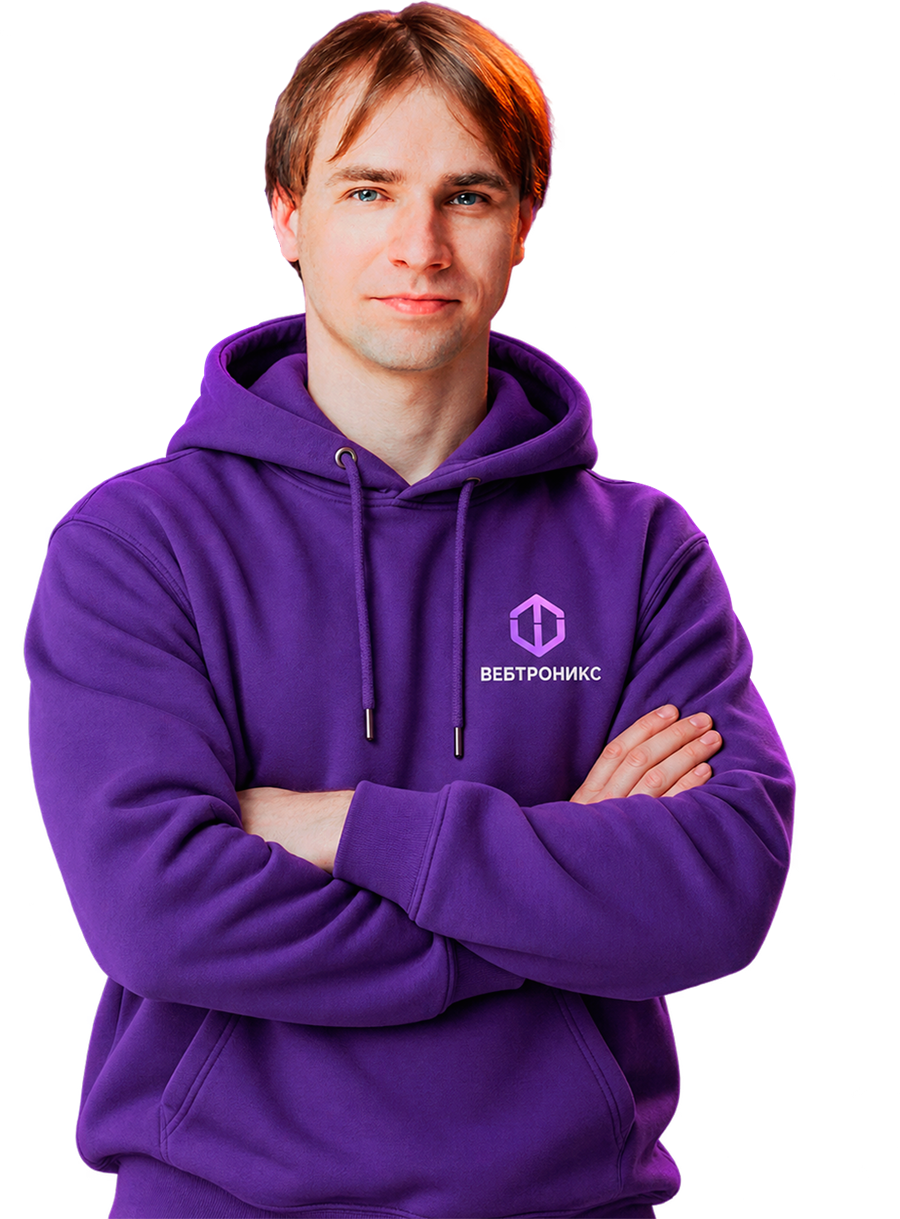
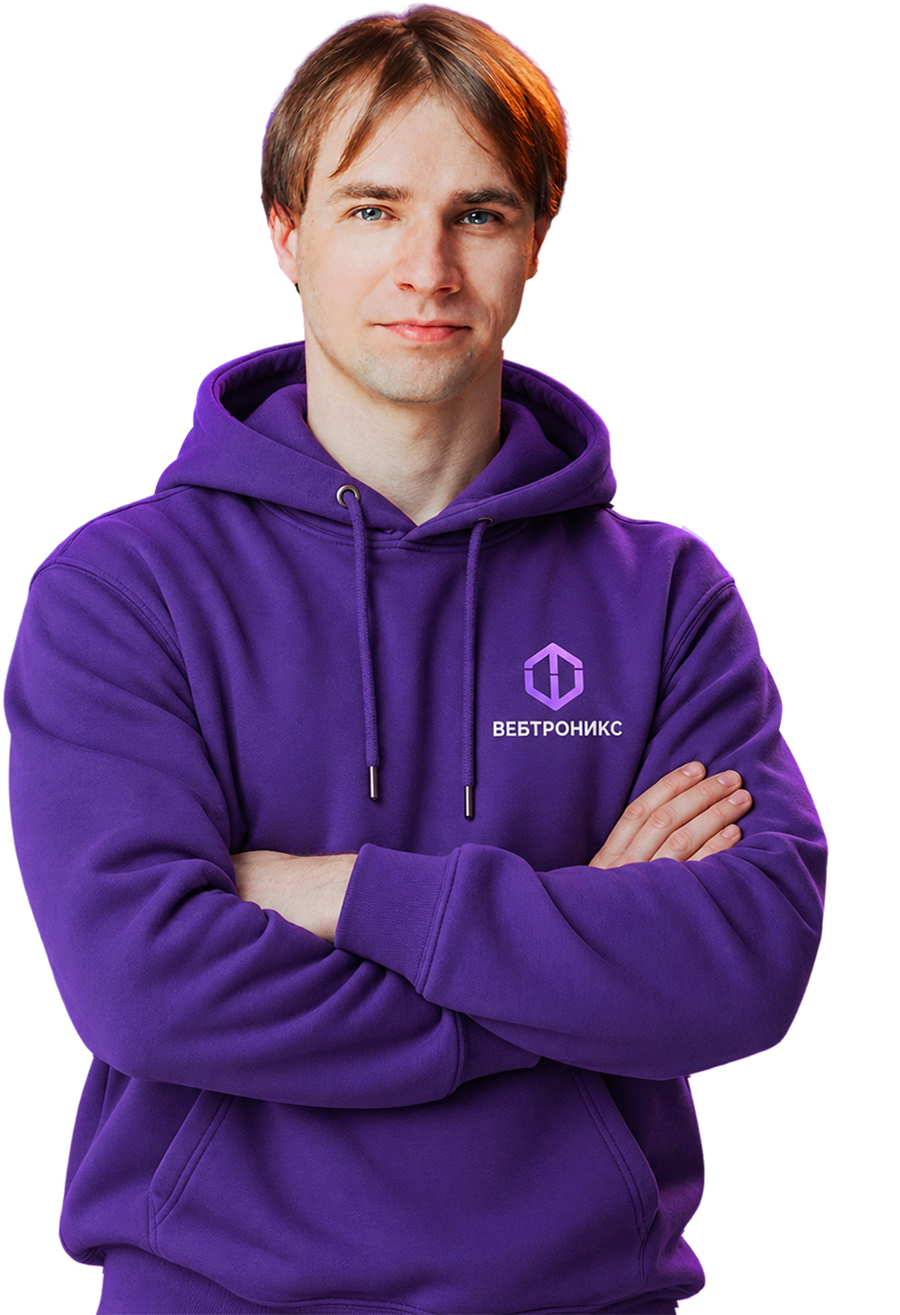
Mini-KP: mobile cover, director slide polish, new badges
- Cover: header button on mobile, chart fills free height, counters synced
  with the chart loop, floating tiles and pearl dots, static globe badge
- Last slide: new director photo, animated item icons, rearranged tiles
- Credentials row: mark + two-line caption (Astana Hub, Skolkovo in brand
  colours, Ministry accreditation shield)

diff --git a/mini-kp/index.html b/mini-kp/index.html
@@ -145,13 +145,13 @@
   .btn { display: inline-flex; align-items: center; justify-content: center; gap: .625rem; padding: .75rem 1.5rem; border-radius: .875rem; border: 0; font-weight: 700; font-size: .9375rem; text-decoration: none; cursor: pointer; transition: transform .3s var(--ease), box-shadow .3s var(--ease); }
   .btn-primary { background: var(--brand-gradient); color: #fff; box-shadow: 0 6px 20px rgba(112, 82, 255, .35); }
   .btn-primary:hover { transform: translateY(-2px); box-shadow: 0 10px 28px rgba(112, 82, 255, .45); }
-  .top .btn { height: 2.75rem; padding: 0 1.25rem; display: none; }
+  .top .btn { height: 2.375rem; padding: 0 1rem; border-radius: .75rem; font-size: .8125rem; }
   @media (min-width: 900px) and (orientation: landscape) {
     .top { padding: 0 .75rem 0 1.25rem; border-radius: 1.125rem; }
     .logo img { width: 2.625rem; }
     .logo b { font-size: 1.375rem; }
     .logo small { font-size: .75rem; }
-    .top .btn { display: inline-flex; }
+    .top .btn { height: 2.75rem; padding: 0 1.25rem; border-radius: .875rem; font-size: .9375rem; }
   }
 
   /* Carousel navigation (ПК) — стрелки и точки как в слайдерах главной */
@@ -361,15 +361,20 @@
   .s1bg__dot { position: absolute; width: 1.375rem; height: 1.375rem; border-radius: 50%; background: radial-gradient(circle at 35% 30%, #fff, #d8c8ff 60%, #b08cff); box-shadow: 0 .5rem 1rem -.375rem rgba(112, 82, 255, .6); animation: s1-dot 5s ease-in-out infinite; }
   .s1bg__dot--1 { left: 95%; top: 12%; width: 1.5rem; height: 1.5rem; animation-delay: -2s; }
   .s1bg__dot--2 { left: 44%; top: 38%; width: 1rem; height: 1rem; animation-duration: 6s; }
-  @keyframes s1-dot { 0%, 100% { translate: 0 0; } 50% { translate: 0 -.5rem; } }
+  @keyframes s1-dot { 0%, 100% { translate: 0 0; } 33% { translate: .25rem -.75rem; } 66% { translate: -.25rem -1.125rem; } }
   @media (max-width: 899px), (orientation: portrait) {
     .s1bg__blob--3 { display: none; }
     .s1bg__ring { width: 38rem; left: 50%; top: 66%; opacity: .75; }
     .s1bg__dot--1 { left: auto; right: 7%; top: 35.5%; }
     .s1bg__dot--2 { display: none; }
+    /* телефон: отступ под шапкой, плашка сайта отдельной строкой, график забирает свободную высоту экрана */
+    .s1 { display: flex; flex-direction: column; margin-top: 1rem; }
+    .s1__for { display: flex; flex-direction: column; align-items: flex-start; gap: .625rem; }
+    .fc-wrap, #s1 .fc, #s1 .well { flex: 1; display: flex; flex-direction: column; }
+    .fc__chart { flex: 1; height: auto; min-height: 11.5rem; max-height: 24rem; }
   }
   @media (prefers-reduced-motion: reduce) {
-    .s1bg__ring::before, .s1bg__dot { animation: none; }
+    .s1bg__ring::before, .s1bg__dot, .ill *, .float-ico, .float-ico img { animation: none !important; }
   }
 
   @media (min-width: 900px) and (orientation: landscape) {
@@ -394,13 +399,19 @@
       background: rgba(235, 223, 255, .9); border: 1px solid rgba(255, 255, 255, .9); box-shadow: 0 20px 40px rgba(112, 82, 255, .15); -webkit-backdrop-filter: blur(16px); backdrop-filter: blur(16px);
     }
     .float-ico img { width: 64%; }
-    .float-ico--1 { left: -2rem; top: -1.5rem; }
-    .float-ico--2 { right: -1.5rem; bottom: -1.5rem; animation-delay: -3s; }
+    .float-ico--1 { left: -2rem; top: -1.5rem; animation: ico-hover-a 5.5s ease-in-out infinite; }
+    .float-ico--2 { right: -1.5rem; bottom: -1.5rem; animation: ico-hover-b 6.5s ease-in-out -2s infinite; }
+    .float-ico img { animation: ico-tilt 4.5s ease-in-out infinite alternate; }
+    .float-ico--2 img { animation-duration: 5.5s; animation-delay: -1.5s; }
     .hint { position: absolute; left: 50%; bottom: 1.5rem; transform: translateX(-50%); font-size: .9375rem; }
     .hint { display: none; }
     .hint:hover { background: #fff; }
   }
   @keyframes floatW { 0% { transform: translateY(0) rotate(0); } 100% { transform: translateY(-1rem) rotate(1.5deg); } }
+  /* парение плиток с 3D-иконками у графика: подъём, лёгкий дрейф и наклон, у каждой свой ритм */
+  @keyframes ico-hover-a { 0%, 100% { transform: translate(0, 0) rotate(0); box-shadow: 0 20px 40px rgba(112, 82, 255, .15); } 50% { transform: translate(-.375rem, -1rem) rotate(-5deg); box-shadow: 0 32px 48px rgba(112, 82, 255, .22); } }
+  @keyframes ico-hover-b { 0%, 100% { transform: translate(0, 0) rotate(0); box-shadow: 0 20px 40px rgba(112, 82, 255, .15); } 50% { transform: translate(.375rem, -.875rem) rotate(4deg); box-shadow: 0 32px 48px rgba(112, 82, 255, .22); } }
+  @keyframes ico-tilt { from { transform: rotate(-6deg) scale(.96); } to { transform: rotate(6deg) scale(1.04); } }
 
   /* =========================================================
      2 / 5 — конкуренты
@@ -669,11 +680,22 @@
   .gain__prog i.on { width: 1rem; background: #fff; }
   .cta__ready { font-size: .9375rem; font-weight: 700; line-height: 1.35; }
   .cta__foot { display: grid; gap: .75rem; margin-top: auto; }
-  .logos { display: grid; grid-template-columns: repeat(4, 1fr); gap: .375rem; }
-  .logos li { display: grid; justify-items: center; align-content: center; gap: .375rem; padding: .5rem .25rem; border-radius: .875rem; background: rgba(255, 255, 255, .1); box-shadow: inset 0 0 0 1px rgba(255, 255, 255, .2); text-align: center; }
-  .logos img { height: 1.375rem; width: auto; max-width: 100%; }
-  .logos li:nth-child(3) img { height: 1rem; }
-  .logos span { font-size: .625rem; font-weight: 600; line-height: 1.2; color: rgba(255, 255, 255, .8); }
+  /* регалии: знак слева, справа подпись в две строки (статус + название) */
+  .logos { display: grid; grid-template-columns: repeat(3, minmax(0, 1fr)); gap: .375rem; }
+  .logos li { display: flex; align-items: center; justify-content: center; gap: .25rem; min-width: 0; padding: .5rem .3125rem; border-radius: .875rem; background: rgba(255, 255, 255, .1); box-shadow: inset 0 0 0 1px rgba(255, 255, 255, .2); }
+  .logos img { flex: none; width: auto; height: 1.25rem; }
+  .logos__acc img { filter: drop-shadow(0 0 .375rem rgba(140, 90, 255, .55)); }
+  .logos li > span { display: grid; min-width: 0; line-height: 1.15; text-align: left; }
+  .logos small { font-size: .5625rem; font-weight: 500; color: rgba(255, 255, 255, .75); }
+  .logos b { font-size: .65rem; font-weight: 700; letter-spacing: -.01em; color: #fff; white-space: nowrap; }
+  .logos__sk b { color: #b1ec52; }
+  @media (min-width: 900px) and (orientation: landscape) {
+    .logos { grid-template-columns: repeat(3, auto); justify-content: start; gap: .625rem; }
+    .logos li { gap: .5rem; padding: .625rem .875rem .625rem .625rem; border-radius: .875rem; }
+    .logos img { height: 2.125rem; }
+    .logos small { font-size: .6875rem; }
+    .logos b { font-size: .875rem; }
+  }
 
   @media (min-width: 900px) and (orientation: landscape) {
     .cta { height: 100%; grid-template-columns: minmax(0, 1fr) minmax(0, 1.12fr); grid-template-rows: 1fr auto; gap: 1.25rem 3rem; align-content: stretch; padding: 2.25rem 2.75rem 1.75rem; border-radius: 2.25rem; }
@@ -696,37 +718,26 @@
     .gain li.is-cur { box-shadow: 0 0 0 2px rgba(255, 255, 255, .95), 0 0 0 .4375rem rgba(255, 255, 255, .16), 0 22px 40px -16px rgba(20, 8, 90, .75); }
     .gain li.is-cur i { animation: gr-beat 1.1s ease-in-out; }
     .cta__foot { grid-column: 1 / -1; }
-    .logos { grid-template-columns: repeat(4, minmax(0, 1fr)); gap: 1rem; }
-    .logos li { padding: .875rem 1rem .75rem; gap: .5rem; border-radius: 1rem; }
-    .logos img { height: 2.125rem; }
-    .logos li:nth-child(3) img { height: 1.375rem; }
-    .logos span { font-size: .8125rem; }
   }
 
   /* директор с плашками (только ПК) */
   .dir { display: none; }
-  .logos { grid-template-columns: repeat(3, minmax(0, 1fr)); }
-  .logos img { object-fit: contain; }
   @media (min-width: 900px) and (orientation: landscape) {
-    .cta { grid-template-columns: minmax(0, 1fr) minmax(0, 1fr); }
+    .cta { grid-template-columns: minmax(0, 1fr) 22rem; }   /* левая колонка шире — под регалии; директор привязан к правому краю */
+    .cta__copy { max-width: 27.75rem; }   /* текст — прежней ширины, как при равных колонках */
     .cta__copy { grid-column: 1; grid-row: 1; }
     .cta__foot { grid-column: 1; grid-row: 2; }
     .gain { display: none; }
-    .logos { gap: .75rem; }
-    .logos li { padding: .75rem .75rem .875rem; gap: .5rem; }
-    .logos span { font-size: .75rem; }
-    .logos img { height: 1.625rem; max-width: 100%; }
-    .logos li:nth-child(3) img { height: 1.125rem; }
 
-    .dir { display: block; position: relative; z-index: 1; grid-column: 2; grid-row: 1 / 3; align-self: end; justify-self: center;
-      width: 26rem; aspect-ratio: 900 / 1219; margin-bottom: -3.25rem; }
+    .dir { display: block; position: relative; z-index: 1; grid-column: 2; grid-row: 1 / 3; align-self: end; justify-self: end;
+      width: 24.25rem; aspect-ratio: 900 / 1315; margin-bottom: -3.25rem; left: -.5rem; }   /* то же место, что при двух равных колонках и сдвиге +20px */
     .dir::before { content: ""; position: absolute; z-index: -1; left: 8%; right: 8%; top: 18%; height: 60%; border-radius: 50%;
       background: radial-gradient(closest-side, rgba(216, 130, 255, .55), transparent); filter: blur(1.5rem); }
     .dir__img { position: absolute; inset: 0; width: 100%; height: 100%; }
     /* плашка-реплика: директор «говорит» — хвостик смотрит на него, внутри по кругу 4 пункта встречи */
     .dir__plate { position: absolute; z-index: 2; border-radius: 1.125rem;
       background: linear-gradient(160deg, #ffffff 0%, #f3eeff 100%); box-shadow: 0 0 0 1px rgba(255, 255, 255, .9), 0 26px 50px -22px rgba(20, 8, 90, .75); }
-    .dir__say { left: -21%; top: calc(37% + 1.25rem); width: 64%; height: 23.5%; animation: say-float 6s ease-in-out infinite alternate; }
+    .dir__say { left: calc(-21% - 2.5rem);   /* итого на 20px левее прежнего: компенсирует сдвиг .dir */ top: calc(36% + 1.25rem); width: 64%; height: 25.5%; animation: say-float 6s ease-in-out infinite alternate; }
     .dir__say::after { content: ""; position: absolute; right: 2.25rem; top: -.9375rem; width: 1.625rem; height: 1rem; background: #fff;
       clip-path: polygon(0 100%, 100% 0, 62% 100%); }
     @keyframes say-float { 0% { transform: translateY(0); } 100% { transform: translateY(-.5rem); } }
@@ -736,19 +747,42 @@
       -webkit-backdrop-filter: blur(12px); backdrop-filter: blur(12px); animation: floatW 6s ease-in-out infinite alternate; }
     .dir__tile img { width: 66%; }
     .dir__tile--1 { left: -13%; top: 7%; }
-    .dir__tile--2 { right: 1%; top: 21%; width: 3.75rem; height: 3.75rem; animation-delay: -3s; }
+    .dir__tile--2 { right: 1%; top: 31%; width: 3.75rem; height: 3.75rem; animation-delay: -3s; }
     .dir__dot { position: absolute; z-index: 0; border-radius: 50%; background: radial-gradient(circle at 35% 30%, #fff, #d8c8ff 60%, #b08cff);
       box-shadow: 0 .5rem 1rem -.375rem rgba(40, 10, 140, .6); animation: s1-dot 5s ease-in-out infinite; }
     .dir__dot--1 { left: 19%; top: 1%; width: 1rem; height: 1rem; animation-delay: -1.5s; }
-    .dir__dot--2 { right: -4%; top: 10%; width: 1.375rem; height: 1.375rem; animation-duration: 6.5s; }
+    .dir__dot--2 { right: -4%; top: 20%; width: 1.375rem; height: 1.375rem; animation-duration: 6.5s; }
     .dir__slot { position: absolute; inset: 0; }
     .dir__item { position: absolute; inset: 0; display: flex; flex-direction: column; justify-content: center; gap: .75rem; padding: 1.375rem 1.375rem; color: #1e293b;
       opacity: 0; transform: translateY(.75rem); transition: opacity .5s ease, transform .6s var(--ease); }
     .dir__item.is-on { opacity: 1; transform: none; transition-delay: .25s; }
     .dir__item.is-off { opacity: 0; transform: translateY(-.75rem); }
     .dir__top { display: flex; align-items: center; justify-content: space-between; }
-    .dir__top i { display: grid; place-items: center; width: 2rem; height: 2rem; border-radius: .625rem; background: var(--brand-gradient); box-shadow: 0 8px 16px -8px rgba(112, 82, 255, .8); }
-    .dir__top i svg { width: 1rem; height: 1rem; }
+    .dir__top i { display: grid; place-items: center; width: 3rem; height: 3rem; border-radius: .875rem; background: var(--brand-gradient); box-shadow: 0 10px 20px -10px rgba(112, 82, 255, .9); overflow: hidden; }
+    .dir__top i svg { width: 2.25rem; height: 2.25rem; overflow: visible; }
+    /* анимированные иконки пунктов: рисунок по сетке 32×32 с полем 5px, всё по центру; анимации без сдвига композиции */
+    .ill * { transform-box: fill-box; transform-origin: center; }
+    .dir__item:not(.is-on) .ill * { animation-play-state: paused !important; }
+    .ill-scan__lens { animation: ill-look 3.2s ease-in-out infinite; }
+    .ill-scan__ln { animation: ill-line 1.6s ease-in-out infinite; }
+    .ill-scan__ln + .ill-scan__ln { animation-delay: .4s; }
+    @keyframes ill-look { 0%, 100% { transform: translate(0, 0); } 25% { transform: translate(-1px, -.75px); } 50% { transform: translate(.75px, -1px); } 75% { transform: translate(.75px, .75px); } }
+    @keyframes ill-line { 0%, 100% { opacity: .45; } 50% { opacity: 1; } }
+    .ill-bars__b { transform-origin: 50% 100%; animation: ill-bar 2.8s cubic-bezier(.34, 1.3, .64, 1) infinite; }
+    .ill-bars__b + .ill-bars__b { animation-delay: .15s; } .ill-bars__b + .ill-bars__b + .ill-bars__b { animation-delay: .3s; }
+    .ill-bars__arrow { animation: ill-up 2.8s ease-in-out infinite; }
+    @keyframes ill-bar { 0% { transform: scaleY(.2); } 30%, 82% { transform: scaleY(1); } 100% { transform: scaleY(.2); } }
+    @keyframes ill-up { 0%, 30% { opacity: 0; transform: translateY(2px); } 45%, 78% { opacity: 1; transform: none; } 92%, 100% { opacity: 0; transform: none; } }
+    .ill-step { animation: ill-step 3.6s cubic-bezier(.34, 1.4, .64, 1) infinite; }
+    .ill-step--2 { animation-delay: .5s; } .ill-step--3 { animation-delay: 1s; }
+    @keyframes ill-step { 0% { opacity: 0; transform: scale(.5); } 12%, 80% { opacity: 1; transform: none; } 92%, 100% { opacity: 0; transform: none; } }
+    .ill [class*="ill-"] { animation-fill-mode: backwards; }
+    .ill-chat__a { transform-origin: 20% 100%; animation: ill-pop 3.2s ease-out infinite; }
+    .ill-chat__b { transform-origin: 80% 100%; animation: ill-pop 3.2s ease-out .5s infinite; }
+    .ill-chat__dot { animation: ill-type 1s ease-in-out infinite; }
+    .ill-chat__dot + .ill-chat__dot { animation-delay: .15s; } .ill-chat__dot + .ill-chat__dot + .ill-chat__dot { animation-delay: .3s; }
+    @keyframes ill-pop { 0% { opacity: 0; transform: scale(.8); } 14%, 84% { opacity: 1; transform: none; } 100% { opacity: 0; transform: none; } }
+    @keyframes ill-type { 0%, 100% { transform: translateY(0); opacity: .5; } 50% { transform: translateY(-1.25px); opacity: 1; } }
     .dir__top b { font-family: "Space Grotesk", Inter, sans-serif; font-size: .8125rem; font-weight: 700; color: var(--brand-primary); letter-spacing: .02em; }
     .dir__top b em { font-style: normal; color: #b4a6e6; }
     .dir__item p { font-size: .9375rem; font-weight: 700; line-height: 1.3; letter-spacing: -.01em; }
@@ -789,7 +823,7 @@
     <span><b>Webtronics</b><small>Трафик · Заявки · Продажи</small></span>
   </a>
   <div class="top__right">
-    <a class="btn btn-primary js-meeting" href="#" target="_blank" rel="noopener">Записаться на встречу</a>
+    <a class="btn btn-primary js-meeting" href="#" target="_blank" rel="noopener"><span class="d-only">Записаться на встречу</span><span class="m-only">Записаться</span></a>
   </div>
 </header>
 
@@ -983,14 +1017,14 @@
           <div class="dir__tile dir__tile--2" aria-hidden="true"><img src="img/hero-chart.webp" alt=""></div>
           <span class="dir__dot dir__dot--1" aria-hidden="true"></span>
           <span class="dir__dot dir__dot--2" aria-hidden="true"></span>
-          <img class="dir__img" src="img/director.png" alt="Андрей Черноусов" width="900" height="1219">
+          <img class="dir__img" src="img/director.png" alt="Андрей Черноусов" width="900" height="1315">
           <div class="dir__plate dir__say"><div class="dir__slot"></div></div>
         </div>
         <div class="cta__foot">
           <ul class="logos">
-            <li><span>Резидент</span><img src="img/badge-astana.svg" alt="Astana Hub" width="155" height="42"></li>
-            <li><span>Резидент</span><img src="img/badge-skolkovo.svg" alt="Сколково" width="136" height="38"></li>
-            <li><span>Аккредитованы</span><img src="img/badge-mincifry.svg" alt="Минцифры" width="163" height="22"></li>
+            <li><img src="img/mark-astana.svg" alt="" width="42" height="42"><span><small>Резидент</small><b>astana hub</b></span></li>
+            <li class="logos__sk"><img src="img/mark-skolkovo.svg" alt="" width="38" height="38"><span><small>Участник</small><b>Сколково</b></span></li>
+            <li class="logos__acc"><img src="img/badge-shield.png" alt="" width="155" height="176"><span><small>Аккредитованы</small><b>в&nbsp;МИНЦИФРЫ</b></span></li>
           </ul>
         </div>
       </div>
@@ -1620,11 +1654,30 @@ const KP = {
       if (gainStep > n) gainItems.forEach(li => li.classList.remove('is-cur'));
     }, 950);
 
-    // ПК: в реплике директора по кругу сменяются все пункты
+    // ПК: в реплике директора по кругу сменяются все пункты; у каждого своя анимированная мини-иллюстрация
     const slot = $('.dir__slot', cta);
     if (!slot) return;
+    const ILL = [
+      // лупа «осматривает» сайт: внутри мигают строки
+      `<svg class="ill" viewBox="0 0 32 32" fill="none" aria-hidden="true"><g transform="translate(.75 .75)"><g class="ill-scan__lens" stroke="#fff" stroke-linecap="round">
+        <circle cx="13.5" cy="13.5" r="7.5" fill="#fff" fill-opacity=".14" stroke-width="2.2"/><path d="m19.1 19.1 5.5 5.5" stroke-width="2.6"/>
+        <path class="ill-scan__ln" d="M10 11.5h7" stroke-width="1.8"/><path class="ill-scan__ln" d="M10 15.5h4.5" stroke-width="1.8"/></g></g></svg>`,
+      // столбики: конкуренты выше, ваш ниже и тянется вверх
+      `<svg class="ill" viewBox="0 0 32 32" fill="none" aria-hidden="true"><path d="M6 24.5h20" stroke="#fff" stroke-opacity=".6" stroke-width="1.6" stroke-linecap="round"/>
+        <rect class="ill-bars__b" x="7.5" y="12.5" width="4.5" height="10.5" rx="1.5" fill="#fff" fill-opacity=".55"/><rect class="ill-bars__b" x="13.75" y="7.5" width="4.5" height="15.5" rx="1.5" fill="#fff" fill-opacity=".55"/><rect class="ill-bars__b" x="20" y="16.5" width="4.5" height="6.5" rx="1.5" fill="#fff"/>
+        <path class="ill-bars__arrow" d="M22.25 13.5V7.5m-2 2 2-2 2 2" stroke="#fff" stroke-width="1.8" stroke-linecap="round" stroke-linejoin="round"/></svg>`,
+      // чек-лист шагов: галочки встают по очереди
+      `<svg class="ill" viewBox="0 0 32 32" fill="none" aria-hidden="true">${[[8.5, 12], [16, 8.5], [23.5, 10.5]].map(([y, w], i) =>
+        `<circle cx="9" cy="${y}" r="2.5" stroke="#fff" stroke-opacity=".6" stroke-width="1.4"/><rect x="14.5" y="${y - 1.3}" width="${w}" height="2.6" rx="1.3" fill="#fff" fill-opacity=".7"/>
+        <g class="ill-step ill-step--${i + 1}"><circle cx="9" cy="${y}" r="3.4" fill="#fff"/><path d="m7.6 ${y} 1 1 1.9-2" stroke="#7052ff" stroke-width="1.5" stroke-linecap="round" stroke-linejoin="round"/></g>`).join('')}</svg>`,
+      // вопрос и ответ: облачка не перекрываются, в ответе «печатает…»
+      `<svg class="ill" viewBox="0 0 32 32" fill="none" aria-hidden="true"><g transform="translate(0 -.5)">
+        <path class="ill-chat__a" d="M8.5 5h7.5a3.5 3.5 0 0 1 3.5 3.5v3a3.5 3.5 0 0 1-3.5 3.5h-5.5l-3 2.5v-2.9A3.5 3.5 0 0 1 5 11.5v-3A3.5 3.5 0 0 1 8.5 5z" fill="#fff" fill-opacity=".2" stroke="#fff" stroke-width="1.6" stroke-linejoin="round"/>
+        <g class="ill-chat__b"><path d="M16 16.5h7.5a3.5 3.5 0 0 1 3.5 3.5v2.5a3.5 3.5 0 0 1-2.5 3.36V28l-3.2-2H16a3.5 3.5 0 0 1-3.5-3.5V20a3.5 3.5 0 0 1 3.5-3.5z" fill="#fff"/>
+        <circle class="ill-chat__dot" cx="16.5" cy="21.25" r="1.3" fill="#7052ff"/><circle class="ill-chat__dot" cx="19.75" cy="21.25" r="1.3" fill="#7052ff"/><circle class="ill-chat__dot" cx="23" cy="21.25" r="1.3" fill="#7052ff"/></g></g></svg>`,
+    ];
     slot.innerHTML = gainItems.map((li, i) =>
-      `<div class="dir__item${i ? '' : ' is-on'}"><div class="dir__top"><i>${$('i', li).innerHTML}</i><b>${String(i + 1).padStart(2, '0')}<em> / ${String(n).padStart(2, '0')}</em></b></div><p>${li.textContent.trim()}</p></div>`).join('');
+      `<div class="dir__item${i ? '' : ' is-on'}"><div class="dir__top"><i>${ILL[i] || $('i', li).innerHTML}</i><b>${String(i + 1).padStart(2, '0')}<em> / ${String(n).padStart(2, '0')}</em></b></div><p>${li.textContent.trim()}</p></div>`).join('');
     let k = 0;
     if (!reduce) setInterval(() => {
       if (!here() || !isWide.matches) return;
